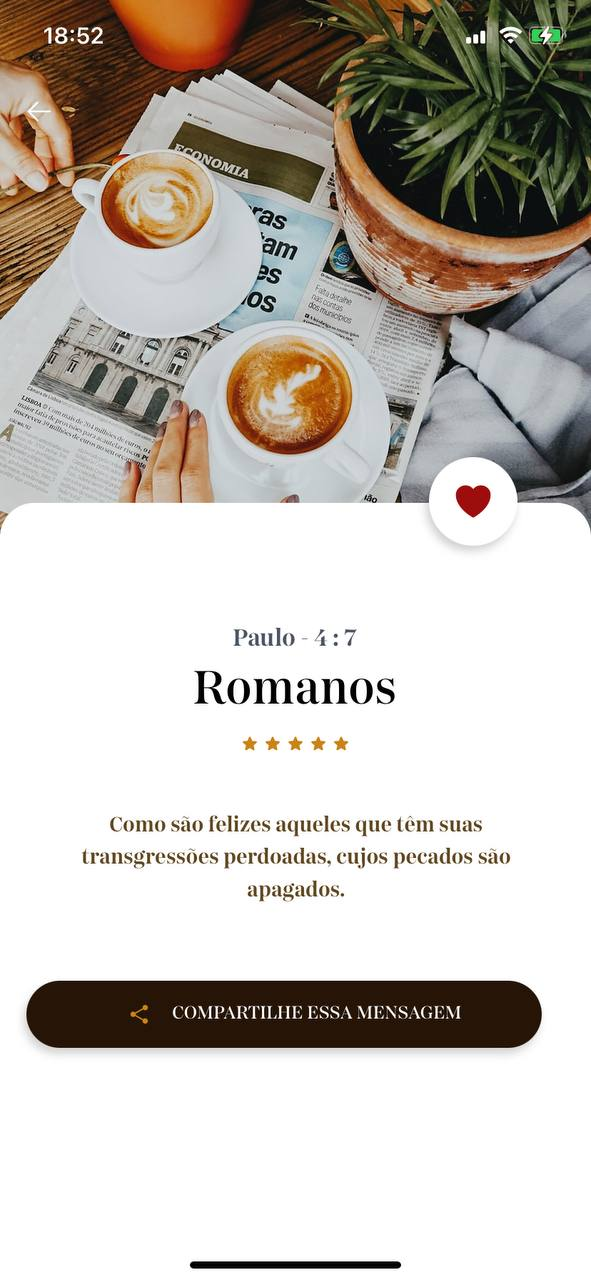
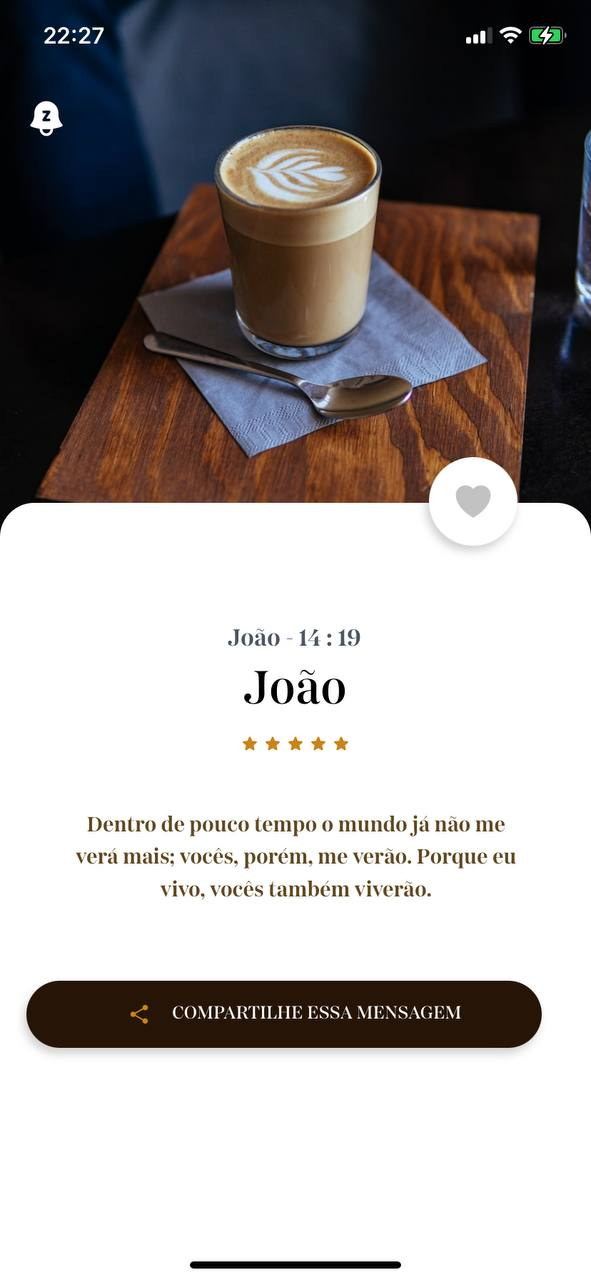
implements the  push notification

diff --git a/src/screens/home/index.tsx b/src/screens/home/index.tsx
@@ -1,16 +1,19 @@
-import React, { useState } from "react";
+import React, { useCallback, useEffect, useRef, useState } from "react";
 import {
   Text,
   View,
   ImageBackground,
   TouchableOpacity,
-  Share
+  Share,
+  Platform,
 } from "react-native";
-import * as Notifications from 'expo-notifications';
-import Constants from 'expo-constants';
+import * as Notifications from "expo-notifications";
+import * as Device from "expo-device";
+import Constants from "expo-constants";
 import { useBook } from "../../hooks/useBooks";
 
 import {
+  BellSnoozeIcon,
   ArrowLeftIcon,
   MagnifyingGlassIcon,
   HeartIcon,
@@ -31,6 +34,11 @@ Notifications.setNotificationHandler({
 });
 
 export function Home() {
+  const [expoPushToken, setExpoPushToken] = useState<string |null>("");
+  const [notification, setNotification] = useState<boolean>(false);
+  const notificationListener = useRef();
+  const responseListener = useRef();
+
   const { name, author, group, chapter, number, text } = useBook();
   const [liked, setLiked] = useState(false);
 
@@ -52,7 +60,66 @@ export function Home() {
       alert(error);
     }
   };
-  
+
+  useEffect(() => {
+    registerForPushNotificationsAsync().then((token) =>
+      setExpoPushToken(token)
+    );
+
+    notificationListener.current =
+      Notifications.addNotificationReceivedListener((notification) => {
+        setNotification(notification);
+      });
+
+    responseListener.current =
+      Notifications.addNotificationResponseReceivedListener((response) => {
+        console.log(response);
+      });
+
+    return () => {
+      Notifications.removeNotificationSubscription(
+        notificationListener.current
+      );
+      Notifications.removeNotificationSubscription(responseListener.current);
+    };
+  }, []);
+
+  useEffect(() => {
+    (async () => {
+      const time = new Date(Date.now());
+      time.setHours(6);
+      time.setMinutes(0);
+      time.setSeconds(0);
+      const now = new Date("2022-10-18T07:00:00.000Z");
+      const difference = now.getTime() - time.getTime(); // This will give difference in milliseconds
+      const minutes = Math.round(difference / 60000);
+
+      if (minutes >= 0 && minutes <= 180) {
+        await Notifications.scheduleNotificationAsync({
+          content: {
+            title: `🕊 Mensagem de ${author} - ${chapter} : ${number}`,
+            body: text,
+            data: { data: "goes here" },
+          },
+          trigger: { seconds: 2 },
+        });
+        const nextTriggerDate = await Notifications.getNextTriggerDateAsync({
+          hour: 7,
+          minute: 0,
+        });
+
+        console.log(
+          nextTriggerDate === null
+            ? "No next trigger date"
+            : new Date(nextTriggerDate)
+        );
+      }
+    })();
+  }, []);
+
+  const removeNotification = useCallback(async () => {
+    await Notifications.cancelAllScheduledNotificationsAsync();
+  }, []);
 
   return (
     <>
@@ -63,10 +130,12 @@ export function Home() {
       >
         <View
           className="w-11/12 mx-auto"
-          style={{ marginTop: Constants.statusBarHeight+20}}
+          style={{ marginTop: Constants.statusBarHeight + 20 }}
         >
           <View className="w-full flex flex-row justify-between">
-            <ArrowLeftIcon color={"#fff"} width={20} height={20} />
+            <TouchableOpacity onPress={() => removeNotification()}>
+              <BellSnoozeIcon color={"#fff"} width={30} height={30} />
+            </TouchableOpacity>
             <MagnifyingGlassIcon color={"transparent"} width={20} height={20} />
           </View>
         </View>
@@ -142,4 +211,37 @@ export function Home() {
       </View>
     </>
   );
+}
+
+async function registerForPushNotificationsAsync() {
+  let token;
+
+  if (Platform.OS === "android") {
+    await Notifications.setNotificationChannelAsync("default", {
+      name: "default",
+      importance: Notifications.AndroidImportance.MAX,
+      vibrationPattern: [0, 250, 250, 250],
+      lightColor: "#FF231F7C",
+    });
+  }
+
+  if (Device.isDevice) {
+    const { status: existingStatus } =
+      await Notifications.getPermissionsAsync();
+    let finalStatus = existingStatus;
+    if (existingStatus !== "granted") {
+      const { status } = await Notifications.requestPermissionsAsync();
+      finalStatus = status;
+    }
+    if (finalStatus !== "granted") {
+      alert("Failed to get push token for push notification!");
+      return;
+    }
+    token = (await Notifications.getExpoPushTokenAsync()).data;
+    console.log(token);
+  } else {
+    alert("Must use physical device for Push Notifications");
+  }
+
+  return token;
 }

diff --git a/src/screens/signIn/index.tsx b/src/screens/signIn/index.tsx
@@ -1,14 +1,86 @@
-import React from "react";
-import { StatusBar } from "expo-status-bar";
-import { Text, View } from "react-native";
+import React, { useState } from "react";
+import {
+  Text,
+  View,
+  ImageBackground,
+  TouchableOpacity,
+} from "react-native";
+import Constants from 'expo-constants';
+
+import {
+  ArrowLeftIcon,
+  MagnifyingGlassIcon,
+  HeartIcon,
+  StarIcon,
+  ShareIcon,
+} from "react-native-heroicons/solid";
+
+const image = {
+  uri: "https://source.unsplash.com/random/?cappuccino",
+};
 
 export function SignIn() {
   return (
-    <View className="flex flex-1 items-center justify-center bg-black">
-      <Text className="text-white">
-        SignIn
-      </Text>
-      <StatusBar style="auto" />
-    </View>
+    <>
+      <ImageBackground
+        className="w-full h-96 object-cover flex justify-between"
+        source={image}
+        resizeMode="cover"
+      >
+        <View
+          className="w-11/12 mx-auto"
+          style={{ marginTop: Constants.statusBarHeight+20}}
+        >
+          <View className="w-full flex flex-row justify-between">
+            <ArrowLeftIcon color={"#fff"} width={20} height={20} />
+            <MagnifyingGlassIcon color={"transparent"} width={20} height={20} />
+          </View>
+        </View>
+      </ImageBackground>
+      <View className="-mt-8 w-full h-full bg-white rounded-t-3xl">
+        <View className="w-10/12 mx-auto items-center pt-10">
+          <View className="flex items-center justify-center p-3">
+            <Text
+              className="text-gray-600 text-lg font-semibold"
+              style={{ fontFamily: "passenger-display-semibold" }}
+            >
+              HOLY NOTIFCATION
+            </Text>
+            <Text
+              className="text-black text-4xl mt-1 font-bold"
+              style={{ fontFamily: "passenger-display-medium" }}
+            >
+              ENTRE COM SUA CONTA
+            </Text>
+            <Text
+              className="text-[#60461f] text-base text-center mt-10"
+              style={{ fontFamily: "passenger-display-semibold" }}
+            >
+              entre
+            </Text>
+          </View>
+        </View>
+        <View className="w-10/12 mx-auto pt-10">
+          <TouchableOpacity
+            className="flex flex-row gap-x-4 py-4 items-center justify-center bg-yellow rounded-3xl bg-[#261507]"
+            style={{
+              shadowOffset: { width: -2, height: 4 },
+              shadowColor: "#171717",
+              shadowOpacity: 0.2,
+              shadowRadius: 3,
+            }}
+            onPress={() => {}}
+          >
+            <ShareIcon color={"#ca8317"} width={15} height={15} />
+            <Text
+              className="text-white font-bold"
+              style={{ fontFamily: "passenger-display-medium" }}
+            >
+              LOGIN
+            </Text>
+          </TouchableOpacity>
+        </View>
+      </View>
+    </>
   );
 }

diff --git a/src/hooks/useBooks.tsx b/src/hooks/useBooks.tsx
@@ -56,7 +56,7 @@ function BookProvider({ children }: BookProviderProps) {
   useEffect(() => {
     (async () => {
       await axios
-        .get("/verses/nvi/random")
+        .get("/verses/nvi/randoms")
         .then((response) => response.data)
         .then((data) => {
           setAbbrev(data.book?.abbrev?.pt ?? "pt");

diff --git a/README.md b/README.md
@@ -12,19 +12,23 @@
 
 <p align="left">
 <code>
-<img src="assets/readme/04.png" height="450px">
-</code>
-<code>
 <img src="assets/readme/01.jpeg" height="450px">
 </code>
 <code>
 <img src="assets/readme/02.jpeg" height="450px">
 </code>
+<code>
+<img src="assets/readme/03.jpeg" height="450px">
+</code>
 </p>
 <p align="left">
 <code>
-<img src="assets/readme/03.jpeg" height="450px">
-</code></p>
+<img src="assets/readme/04.jpeg" height="450px">
+</code>
+<code>
+<img src="assets/readme/05.png" height="450px">
+</code>
+</p>
 
 ## 📌 Find me!
 
